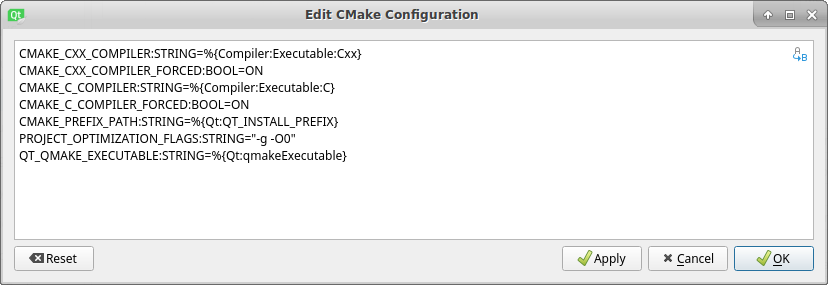
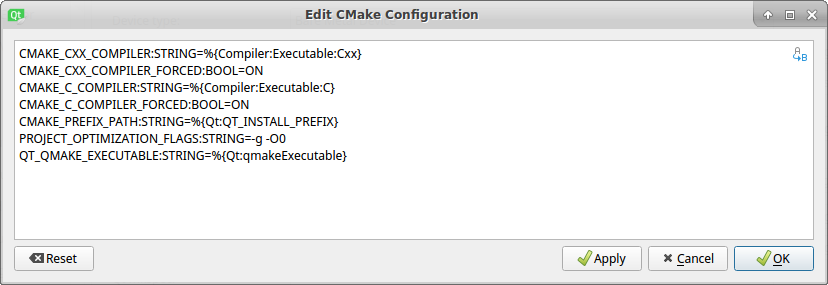
Improve documentation and add `.gitignore` generation
- the documentation about project creation for QT creator has been improved
- add `.gitignore` file generation

diff --git a/src/vznncv/cubemx/tools/_project_processor.py b/src/vznncv/cubemx/tools/_project_processor.py
@@ -49,6 +49,14 @@ def generate_openocd_script(project_description, script_file):
         f.write(build_script_context)
 
 
+def generate_gitignore(project_description, script_file):
+    env = get_template_environment()
+    gitignore_template = env.get_template('gitignore_template')
+    gitignore_text = gitignore_template.render()
+    with open(script_file, 'w', encoding='utf-8') as f:
+        f.write(gitignore_text)
+
+
 def write_file(dst_file, project_description, generate_fun, overwrite):
     if exists(dst_file):
         if overwrite:
@@ -103,5 +111,12 @@ def process_project(project_dir, overwrite=True):
         dst_file=join(project_dir, 'openocd_stm.cfg'),
         project_description=project_description,
         generate_fun=generate_openocd_script,
+        overwrite=False
+    )
+    # generate .gitignore
+    write_file(
+        dst_file=join(project_dir, '.gitignore'),
+        project_description=project_description,
+        generate_fun=generate_gitignore,
         overwrite=False
     )

diff --git a/docs/qt_creator_tutorial.rst b/docs/qt_creator_tutorial.rst
@@ -49,7 +49,12 @@ Configuration steps
      CMAKE_CXX_COMPILER_FORCED:BOOL=ON
      CMAKE_C_COMPILER_FORCED:BOOL=ON
 
+
    .. image:: images/qt_creator/pic_7_run_and_build_kit_cmake.png
+
+   .. note:: If you use some string parameter in the **CMake Configuration**, you shouldn't
+             escape it with quotes. For example you should write ``PROJECT_OPTIMIZATION_FLAGS:STRING=-g -O0``
+             instead of ``PROJECT_OPTIMIZATION_FLAGS:STRING="-g -O0"``
 
 #. Go to **Genera** tab and change "Default build directory" to ``build/%{CurrentBuild:Name}`` (optional)
 
@@ -58,6 +63,9 @@ Configuration steps
 #. Open STM32CubeMX and create new "make" project.
 
    .. image:: images/qt_creator/pic_9_cubemx.png
+
+   .. note:: ensure that pins for debug interface are enabled. Otherwise after first program
+             uploading you won't be able to reprogram an microcontroller.
 
 #. Run from project folder the command to create ``CMakeLists.txt`` file::
 

diff --git a/CHANGELOG.md b/CHANGELOG.md
@@ -4,6 +4,11 @@ All notable changes to this project will be documented in this file.
 The format is based on [Keep a Changelog](http://keepachangelog.com/en/1.0.0/)
 and this project adheres to [Semantic Versioning](http://semver.org/spec/v2.0.0.html).
 
+## Unreleased
+### Changed
+- Improved documentation of a project creation in the QT creator
+- Added `.gitignore` file generation
+
 ## [0.2.0] - 2018-06-17
 ### Added
 - Added documentation about *Qt Creator* usage.
